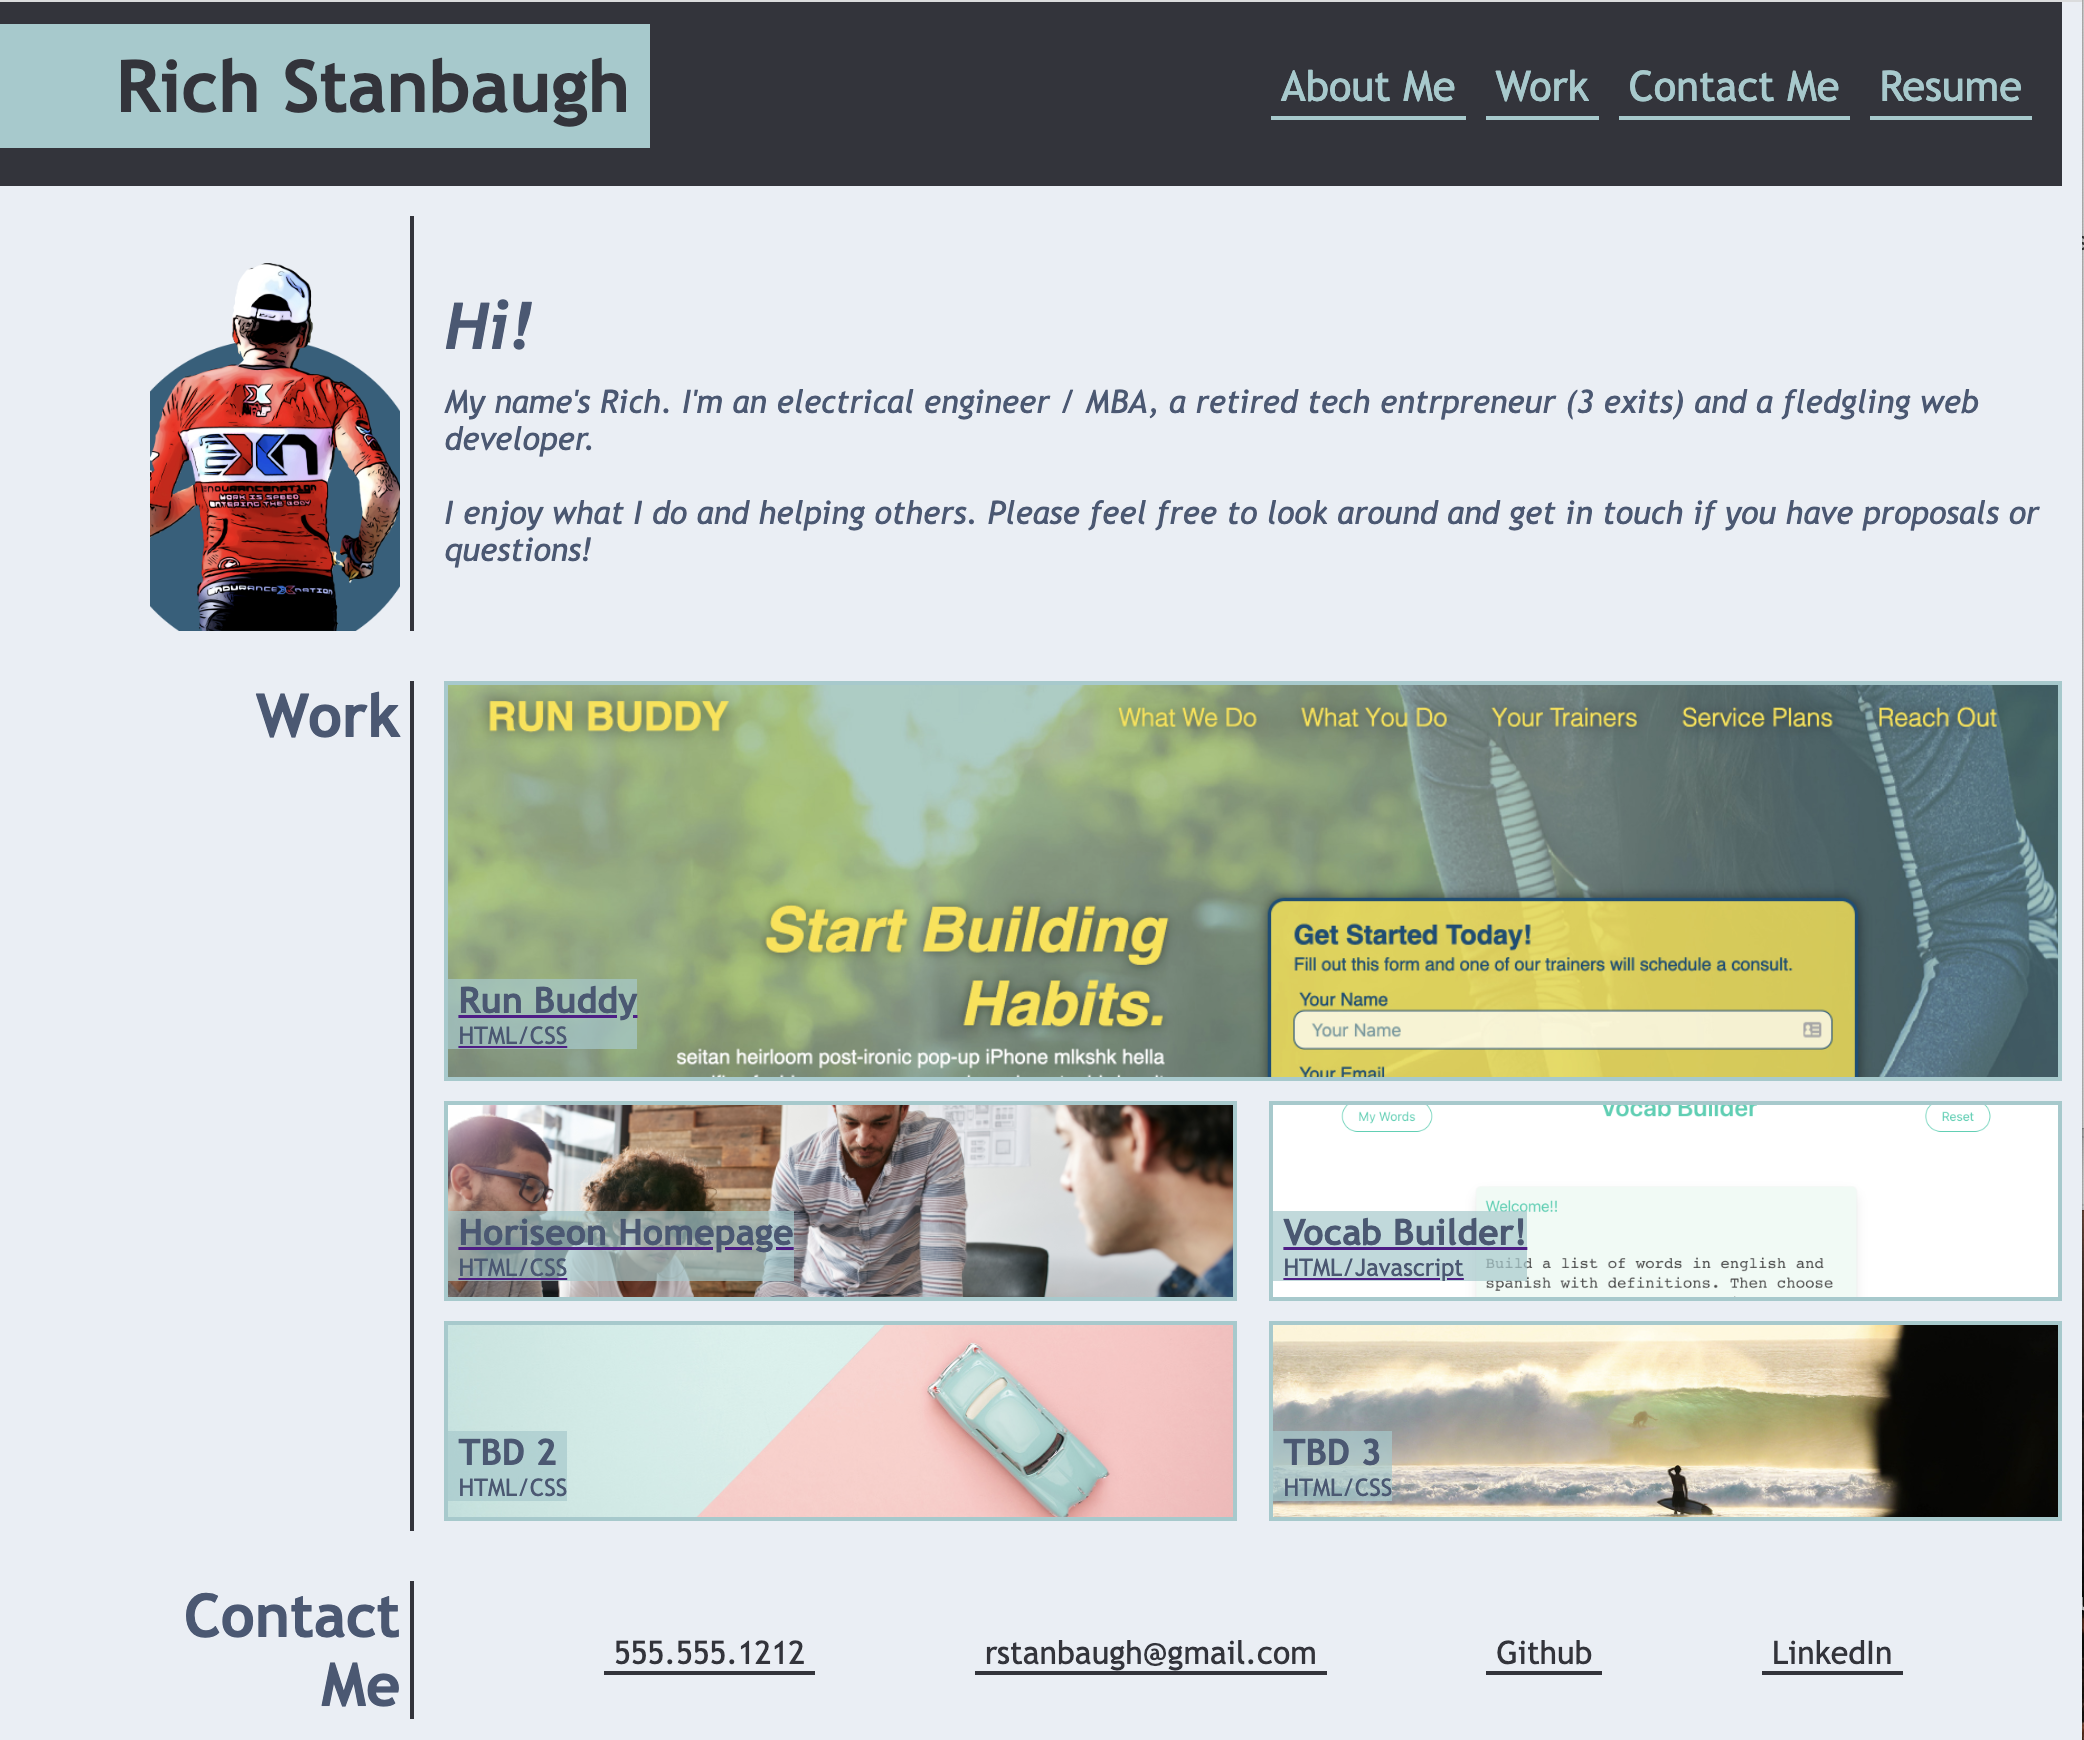
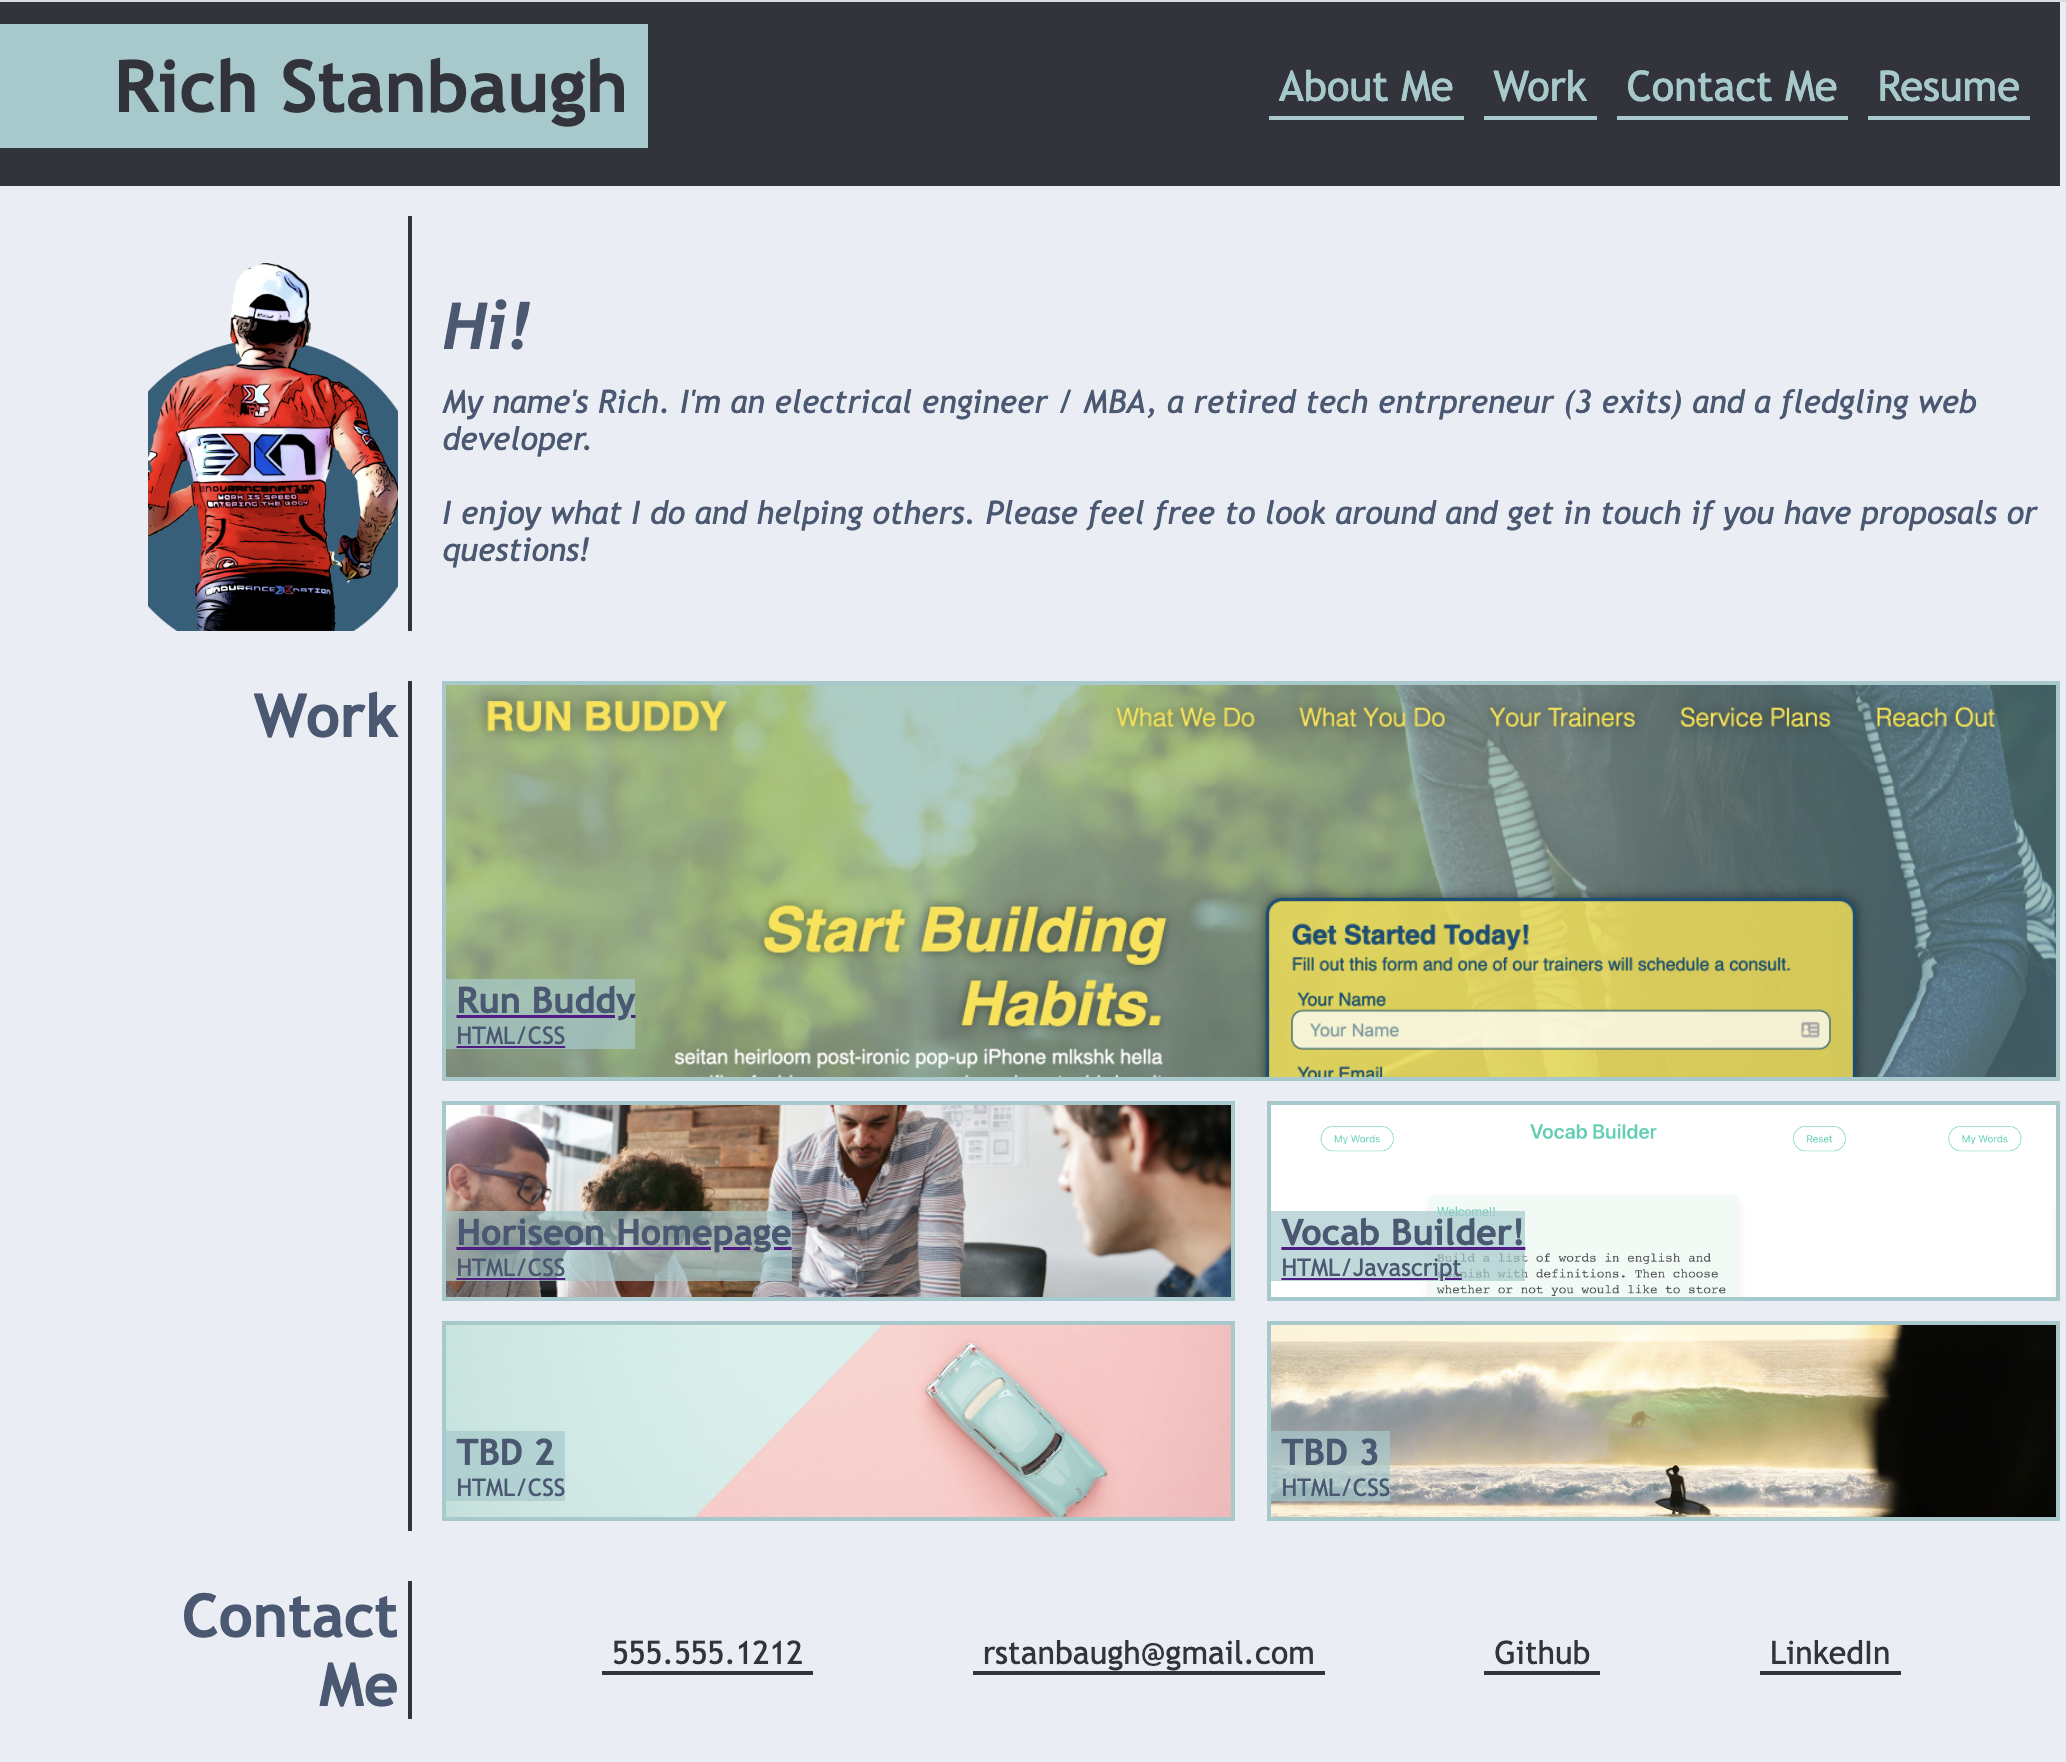
bootcamp overload

diff --git a/Assets/css/style.css b/Assets/css/style.css
@@ -211,19 +211,20 @@ header nav ul li a:hover {
 }
 
 #app-2 {
-    background-image: url("../images/VocabBuilder.png");
-    background-size: 80`%;
-    background-position: 75% 10%;
+    background-image: url("../images/VocabBuilder-2.png");
+    background-size: 80%;
+    background-position: 75% 10;
+    0%;
 }
 
 #app-3 {
-    background-image: url("../images/02-portfolio-3.jpg");
-    background-position: 100% 65%;
+    background-image: url("../images/bootcamp-overflow-screenshot.png");
+    background-position: 0% 0%;
 }
 
 #app-4 {
     background-image: url("../images/02-portfolio-4.jpg");
-    background-position: center;
+    background-position: 0% 50%;
 }
 /* end work section */
 

diff --git a/index.html b/index.html
@@ -84,10 +84,10 @@
 
                 <div id="app-3" class="app">
                     <!-- omit href on do-nithing links -->
-                    <a alt="Placeholder Link" class="app-link">
+                    <a alt="Bootcamp Overflow" class="app-link">
                         <div>
-                            <h3>TBD 2</h3>
-                            <p>HTML/CSS</p>
+                            <h3>Bootcamp Overflow</h3>
+                            <p>Node/Javascript, Express, Sequelize/MySQL, Handlebars</p>
                         </div>
                     </a>    
                 </div>
